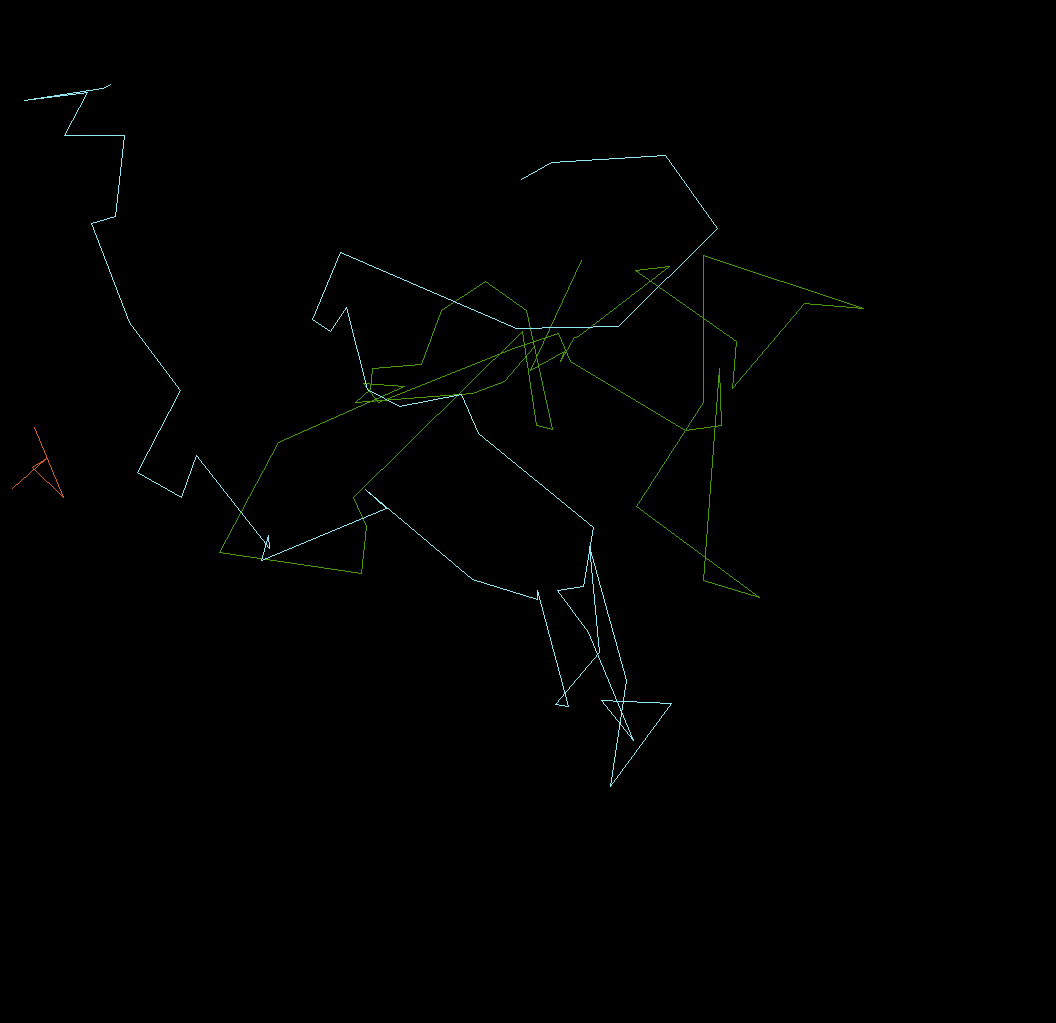
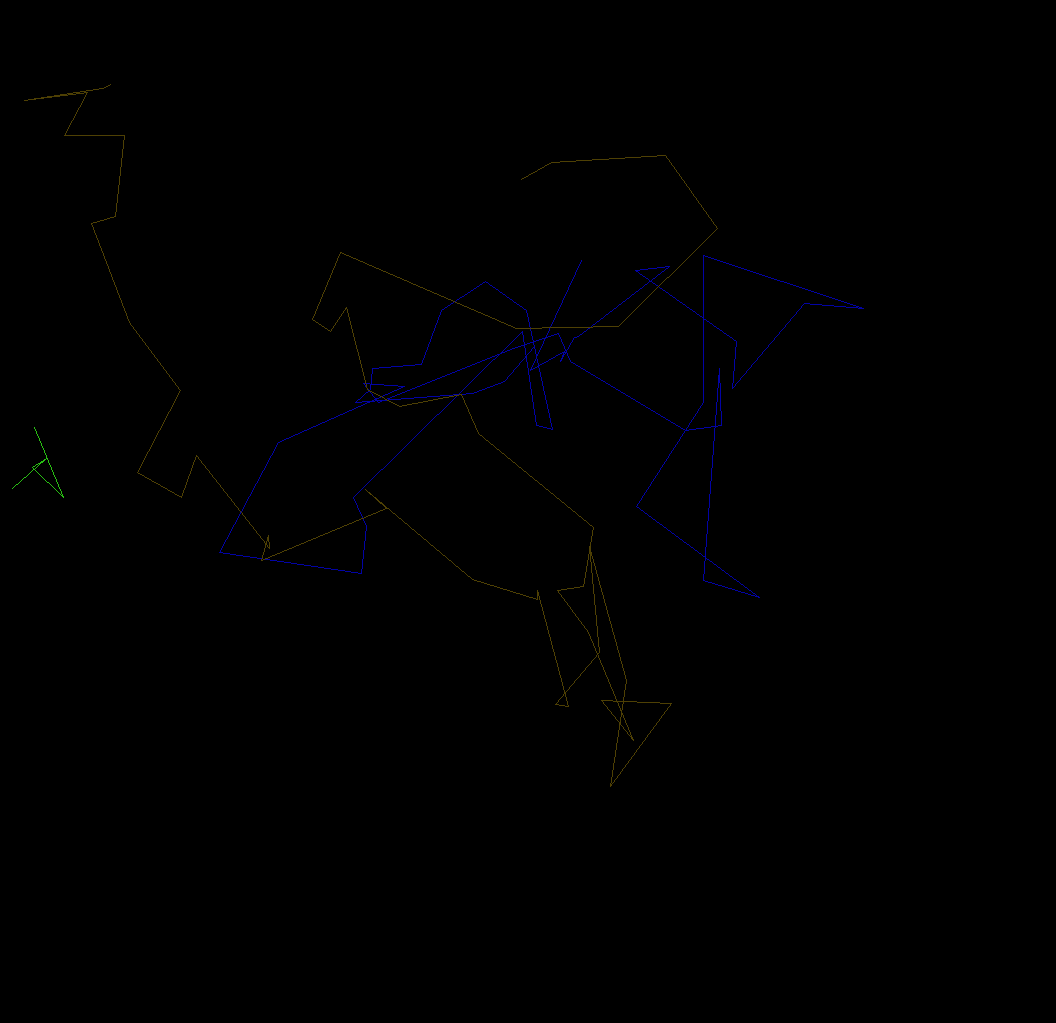
updated

Changed region(s): [[0.5, 0.303, 0.5312, 0.3636], [0.3438, 0.3636, 0.375, 0.3939]]

diff --git a/Tracking.py b/Tracking.py
@@ -21,6 +21,7 @@ from scipy.stats import multivariate_normal
 REG_LEGNTHS = [5, 8, 12]
 REG_MIN_LEN = REG_LEGNTHS[0]
 POLY_FIT_DATA = np.load('polyfit.npz')
+REG_MODEL = RegModel(REG_LEGNTHS)
 
 
 @lru_cache
@@ -35,13 +36,9 @@ def pdf_std_measure(alpha):
     return POLY_FIT_DATA['std'][idx]
 
 
-MULTI_NORMAL = [multivariate_normal(mean=[0, 0, 0], cov=[[pdf_std_measure(alpha), 0, 0], [0,pdf_std_measure(alpha), 0], [0, 0, pdf_std_measure(alpha)]], allow_singular=False) for alpha in POLY_FIT_DATA['alpha']]
-REG_MODEL = RegModel(REG_LEGNTHS)
-
-
-def log_p_multi(relativ_coord, alpha):
+def log_p_multi(relativ_coord, alpha, lag):
     idx = int((alpha / POLY_FIT_DATA['alpha'][-1]) * (len(POLY_FIT_DATA['alpha']) - 1))
-    return MULTI_NORMAL[idx].logpdf(relativ_coord)
+    return MULTI_NORMALS[lag][idx].logpdf(relativ_coord)
 
 
 def greedy_shortest(srcs, dests, lag):
@@ -624,11 +621,10 @@ def predict_long_seq(next_graph, next_path, localizations, prev_alpha):
         cur_coord = localizations[before_node[0]][before_node[1]]
         before_coord = localizations[bebefore_node[0]][bebefore_node[1]]
         dir_vec_before = cur_coord - before_coord
-        estim_mu = pdf_mu_measure(prev_alpha)*dir_vec_before + cur_coord
+        estim_mu = (time_gap + 1) * pdf_mu_measure(prev_alpha) * dir_vec_before + cur_coord
         input_mu = next_coord - estim_mu
-        log_p = log_p_multi(input_mu, alpha=prev_alpha)
+        log_p = log_p_multi(input_mu, prev_alpha, time_gap)
         traj_cost.append(abs(log_p))
-    print(next_path, log_p, prev_alpha)
     traj_cost = np.mean(traj_cost)
     return traj_cost
 
@@ -1555,6 +1551,11 @@ if __name__ == '__main__':
     output_imgstack = f'{OUTPUT_DIR}/{input_tif.split("/")[-1].split(".tif")[0]}_traces.tiff'
     output_img = f'{OUTPUT_DIR}/{input_tif.split("/")[-1].split(".tif")[0]}_traces.png'
 
+    MULTI_NORMALS = {}
+    for lag in range(blink_lag+1):
+        MULTI_NORMALS[lag] = [multivariate_normal(mean=[0, 0, 0], cov=[[pdf_std_measure(alpha)*(lag+1), 0, 0],
+                                                                       [0, pdf_std_measure(alpha)*(lag+1), 0],
+                                                                       [0, 0, pdf_std_measure(alpha)*(lag+1)]], allow_singular=False) for alpha in POLY_FIT_DATA['alpha']]
     final_trajectories = []
     confidence = 0.95
     THRESHOLDS = None #[8 + 2 * thr for thr in range(blink_lag + 1)]
